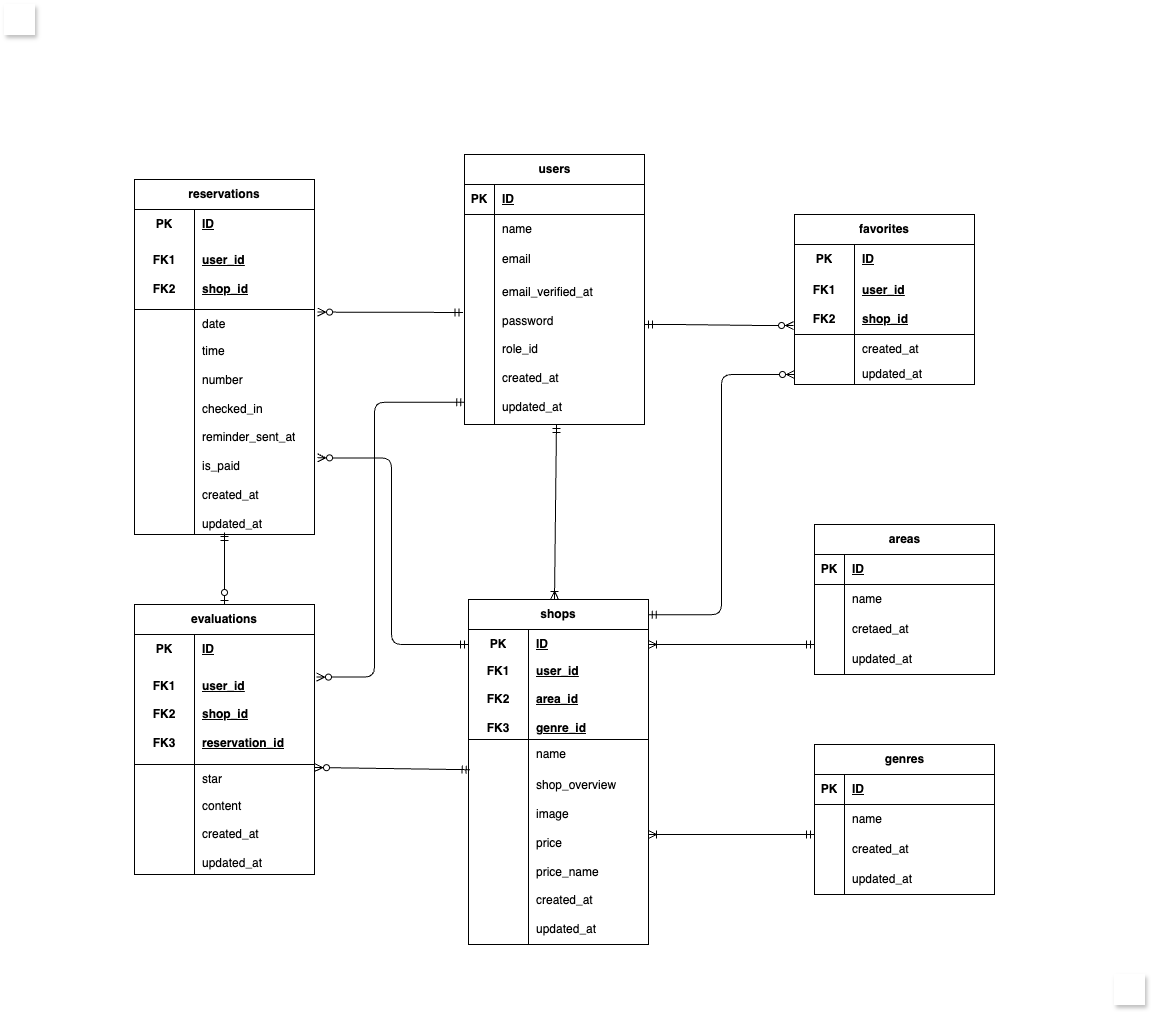
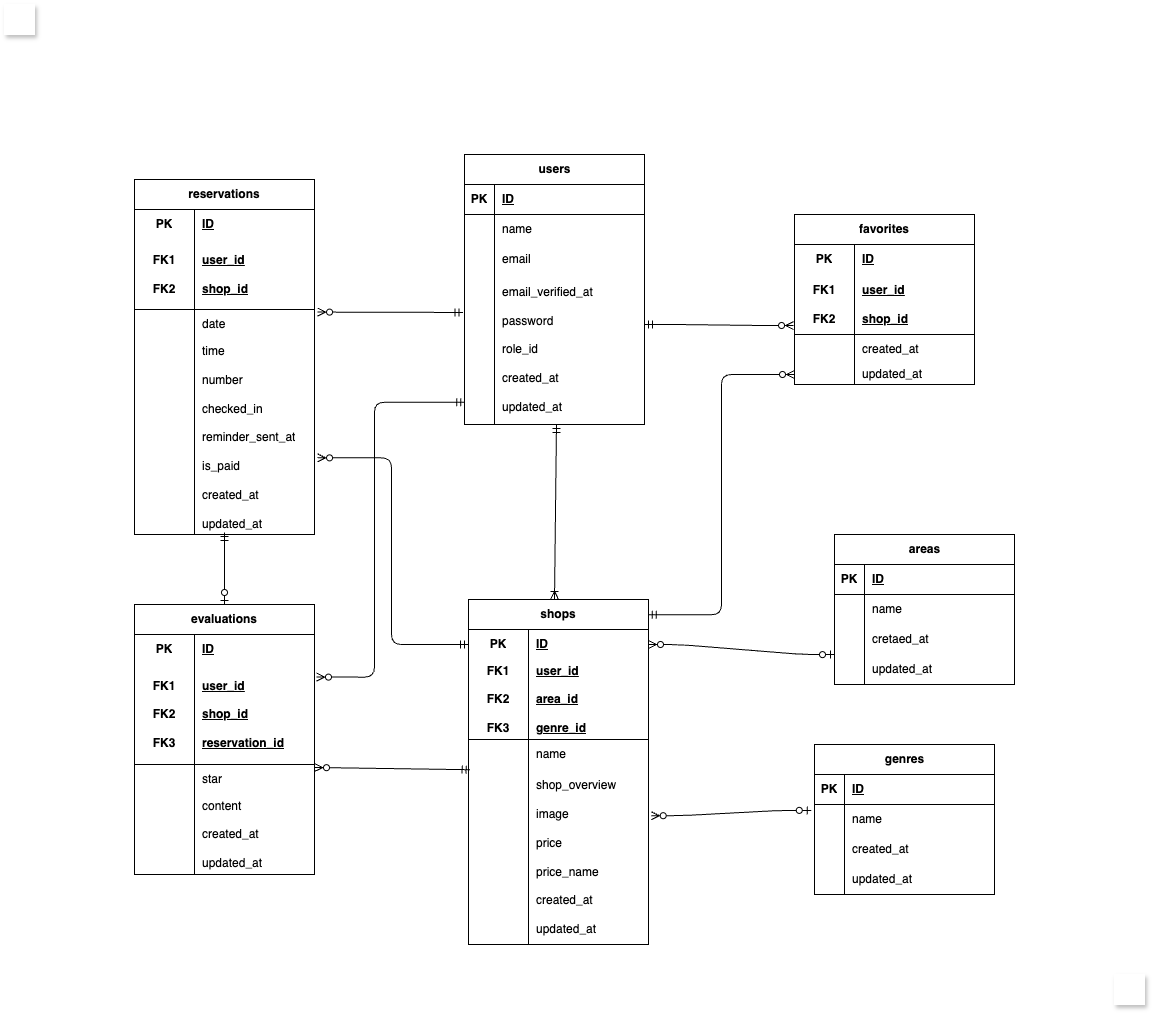
Add Corrected

diff --git a/src/public/css/mypage/index.css b/src/public/css/mypage/index.css
@@ -254,4 +254,16 @@
   .shop-content__image {
     width: 100%;
   }
+
+  .reservation-data:last-of-type {
+    white-space: nowrap;
+    margin-left: 30px;
+  }
+
+  .payment-btn {
+    font-size: 10px;
+    white-space: nowrap;
+    align-items: center;
+
+  }
 }

diff --git a/src/public/css/admin/index.css b/src/public/css/admin/index.css
@@ -44,7 +44,7 @@
 }
 
 
-nav ul {
+.owners-content__page ul {
   list-style: none;
   display: flex;
   padding: 0;
@@ -52,7 +52,7 @@ nav ul {
   justify-content: center;
 }
 
-nav ul li {
+.owners-content__page li {
   margin: 0 5px;
 }
 

diff --git a/src/app/Http/Controllers/ShopController.php b/src/app/Http/Controllers/ShopController.php
@@ -15,26 +15,27 @@ class ShopController extends Controller
 {
     public function index(Request $request)
     {
-        $query = Shop::query();
+        $shops = Shop::query()
+            ->when($request->area_id, function ($query, $area_id) {
+                return $query->where('area_id', $area_id);
+            })
+            ->when($request->genre_id, function ($query, $genre_id) {
+                return $query->where('genre_id', $genre_id);
+            })
+            ->when($request->keyword, function ($query, $keyword) {
+                return $query->where('name', 'like', "%{$keyword}%");
+            })
+            ->get();
+
         $areas = Area::all();
         $genres = Genre::all();
-        $keyword = $request->keyword;
 
-        if ($request->area_id) {
-            $query->where('area_id', $request->area_id);
-        }
-
-        if ($request->genre_id) {
-            $query->where('genre_id', $request->genre_id);
-        }
-
-        if ($keyword) {
-            $query->where('name', 'like', "%{$keyword}%");
-        }
-        $shops = $query->get();
-
-
-        return view('shops.index', compact('shops', 'keyword', 'areas', 'genres'));
+        return view('shops.index', [
+            'shops' => $shops,
+            'areas' => $areas,
+            'genres' => $genres,
+            'keyword' => $request->keyword,
+        ]);
 
     }
 

diff --git a/src/database/seeders/ReservationSeeder.php b/src/database/seeders/ReservationSeeder.php
@@ -1,0 +1,31 @@
+<?php
+
+namespace Database\Seeders;
+
+use Illuminate\Database\Seeder;
+use App\Models\SHop;
+use App\Models\Reservation;
+use App\Models\User;
+use Carbon\Carbon;
+
+class ReservationSeeder extends Seeder
+{
+    /**
+     * Run the database seeds.
+     *
+     * @return void
+     */
+    public function run()
+    {
+        Reservation::create([
+            'user_id' => 1,
+            'shop_id' => 1,
+            'date' => '2026-05-10',
+            'time' => '19:00:00',
+            'number' => 2,
+            'checked_in' => '2026-05-10 19:00:00',
+            'reminder_sent_at' => '2026-05-10 08:00:00',
+            'is_paid' => true,
+        ]);
+    }
+}

diff --git a/src/database/migrations/2026_04_07_161910_create_shops_table.php b/src/database/migrations/2026_04_07_161910_create_shops_table.php
@@ -16,13 +16,13 @@ class CreateShopsTable extends Migration
         Schema::create('shops', function (Blueprint $table) {
             $table->id();
             $table->foreignId('user_id')->constrained()->cascadeOnDelete();
-            $table->foreignId('area_id')->constrained()->cascadeOnDelete();
-            $table->foreignId('genre_id')->constrained()->cascadeOnDelete();
+            $table->foreignId('area_id')->nullable()->constrained()->cascadeOnDelete();
+            $table->foreignId('genre_id')->constrained()->nullable()->cascadeOnDelete();
             $table->string('name', 100);
             $table->text('shop_overview');
             $table->string('image')->nullable();
             $table->integer('price');
-            $table->string('price_name', 100);
+            $table->string('price_name', 100)->nullable();
             $table->timestamps();
         });
     }

diff --git a/src/app/Http/Controllers/OwnerController.php b/src/app/Http/Controllers/OwnerController.php
@@ -28,7 +28,8 @@ class OwnerController extends Controller
         $path = null;
         if ($request->hasFile('image')) {
             $filename = time() . '_' . $request->file('image')->getClientOriginalName();
-            $path = $request->file('image')->storeAs('shops', $filename, 's3');
+            $disk = config('filesystems.default');
+            $path = $request->file('image')->storeAs('shops', $filename, $disk);
         }
 
         $shops = Shop::create([

diff --git a/src/resources/views/shops/index.blade.php b/src/resources/views/shops/index.blade.php
@@ -10,7 +10,7 @@
   <div class="shop-content">
     <form class="search-form" action="{{ route('shops.index') }}" method="get">
       <div class="search-form__item">
-        <select name="area_id"><!--コントローラと名前合わせる-->
+        <select name="area_id">
           <option value="" disabled selected>All area</option>
           @foreach ($areas as $area)
             <option value="{{ $area->id }}">{{ $area->name }}</option>
@@ -31,6 +31,7 @@
         <span class="search-icon">🔍</span>
         <input type="text" name="keyword" placeholder="Search..." />
       </div>
+      <button type="submit" style="display: none;"></button>
     </form>
     <div class="shop-content__item">
       @foreach ($shops as $shop)

diff --git a/src/resources/views/mypage/index.blade.php b/src/resources/views/mypage/index.blade.php
@@ -10,7 +10,7 @@
   <div class="mypage-content">
     <div class="mypage-content__reservation">
       <div class="mypage-title">
-        <h3 class="mypage-reservation__title">予約状況</h3>
+        <h2 class="mypage-reservation__title">予約状況</h2>
         <a class="mypage-reservation__history" href="{{ route('review.show') }}">予約履歴</a>
       </div>
       @if (session('success'))